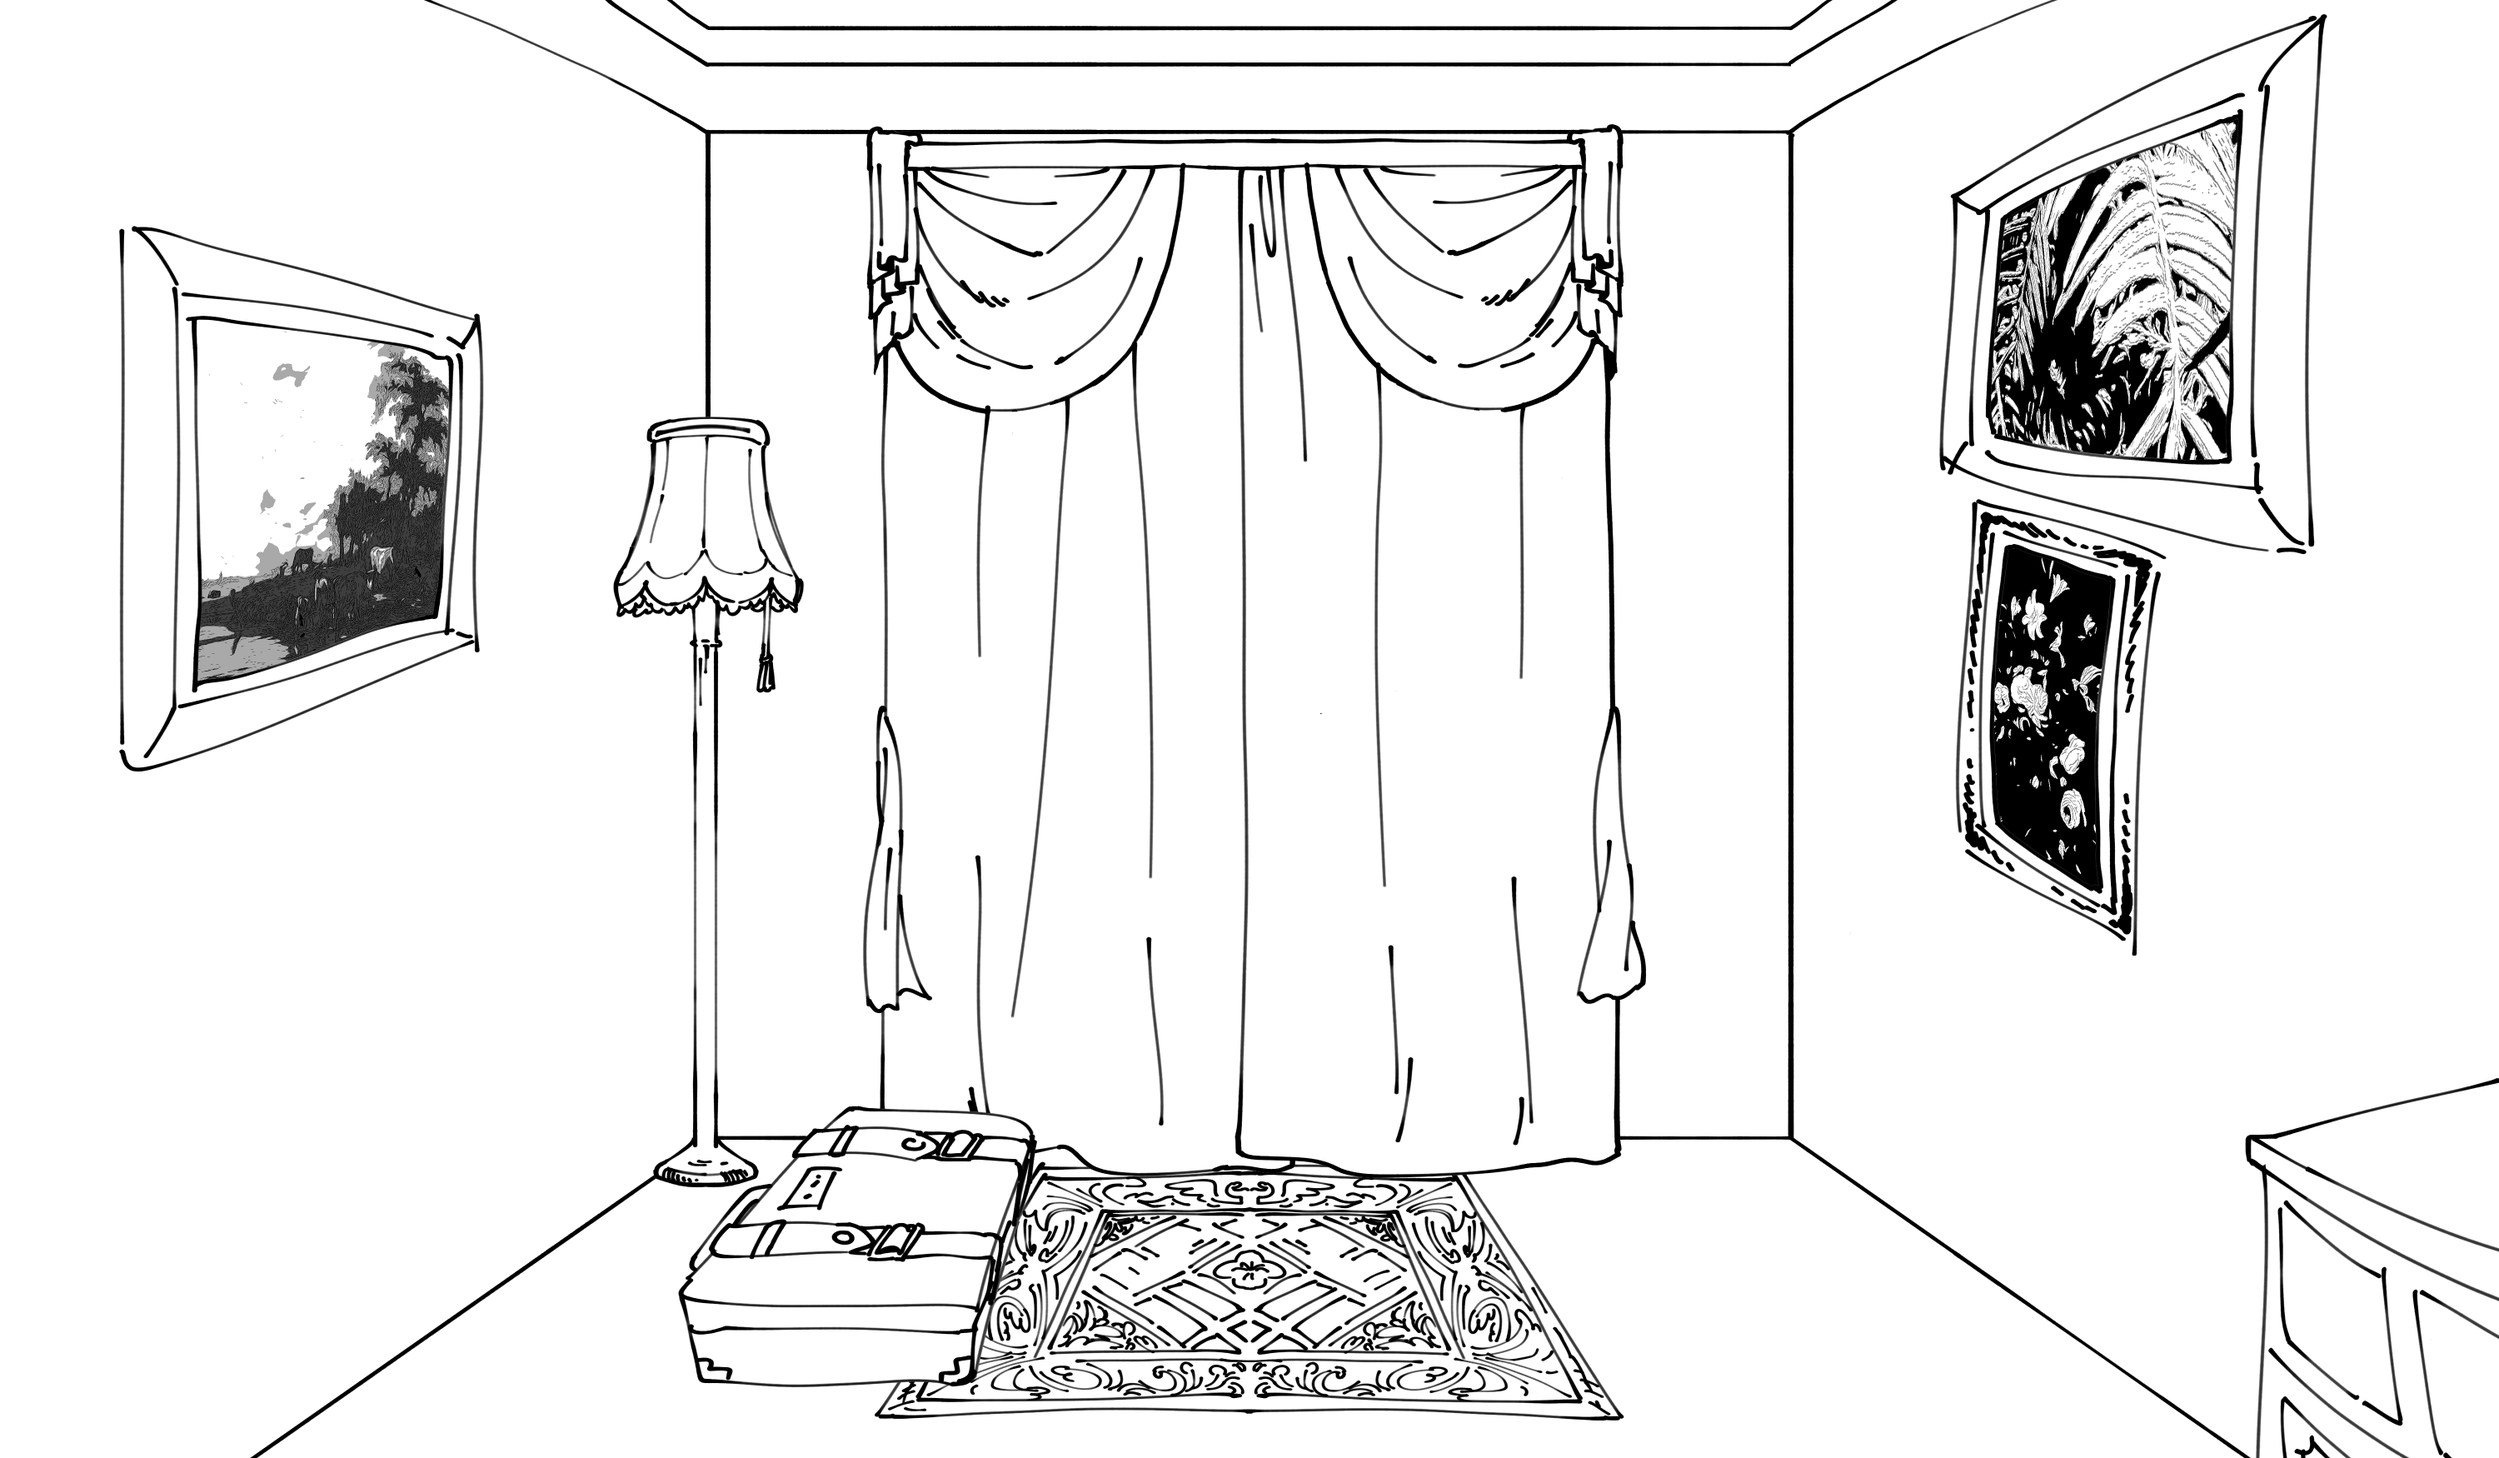
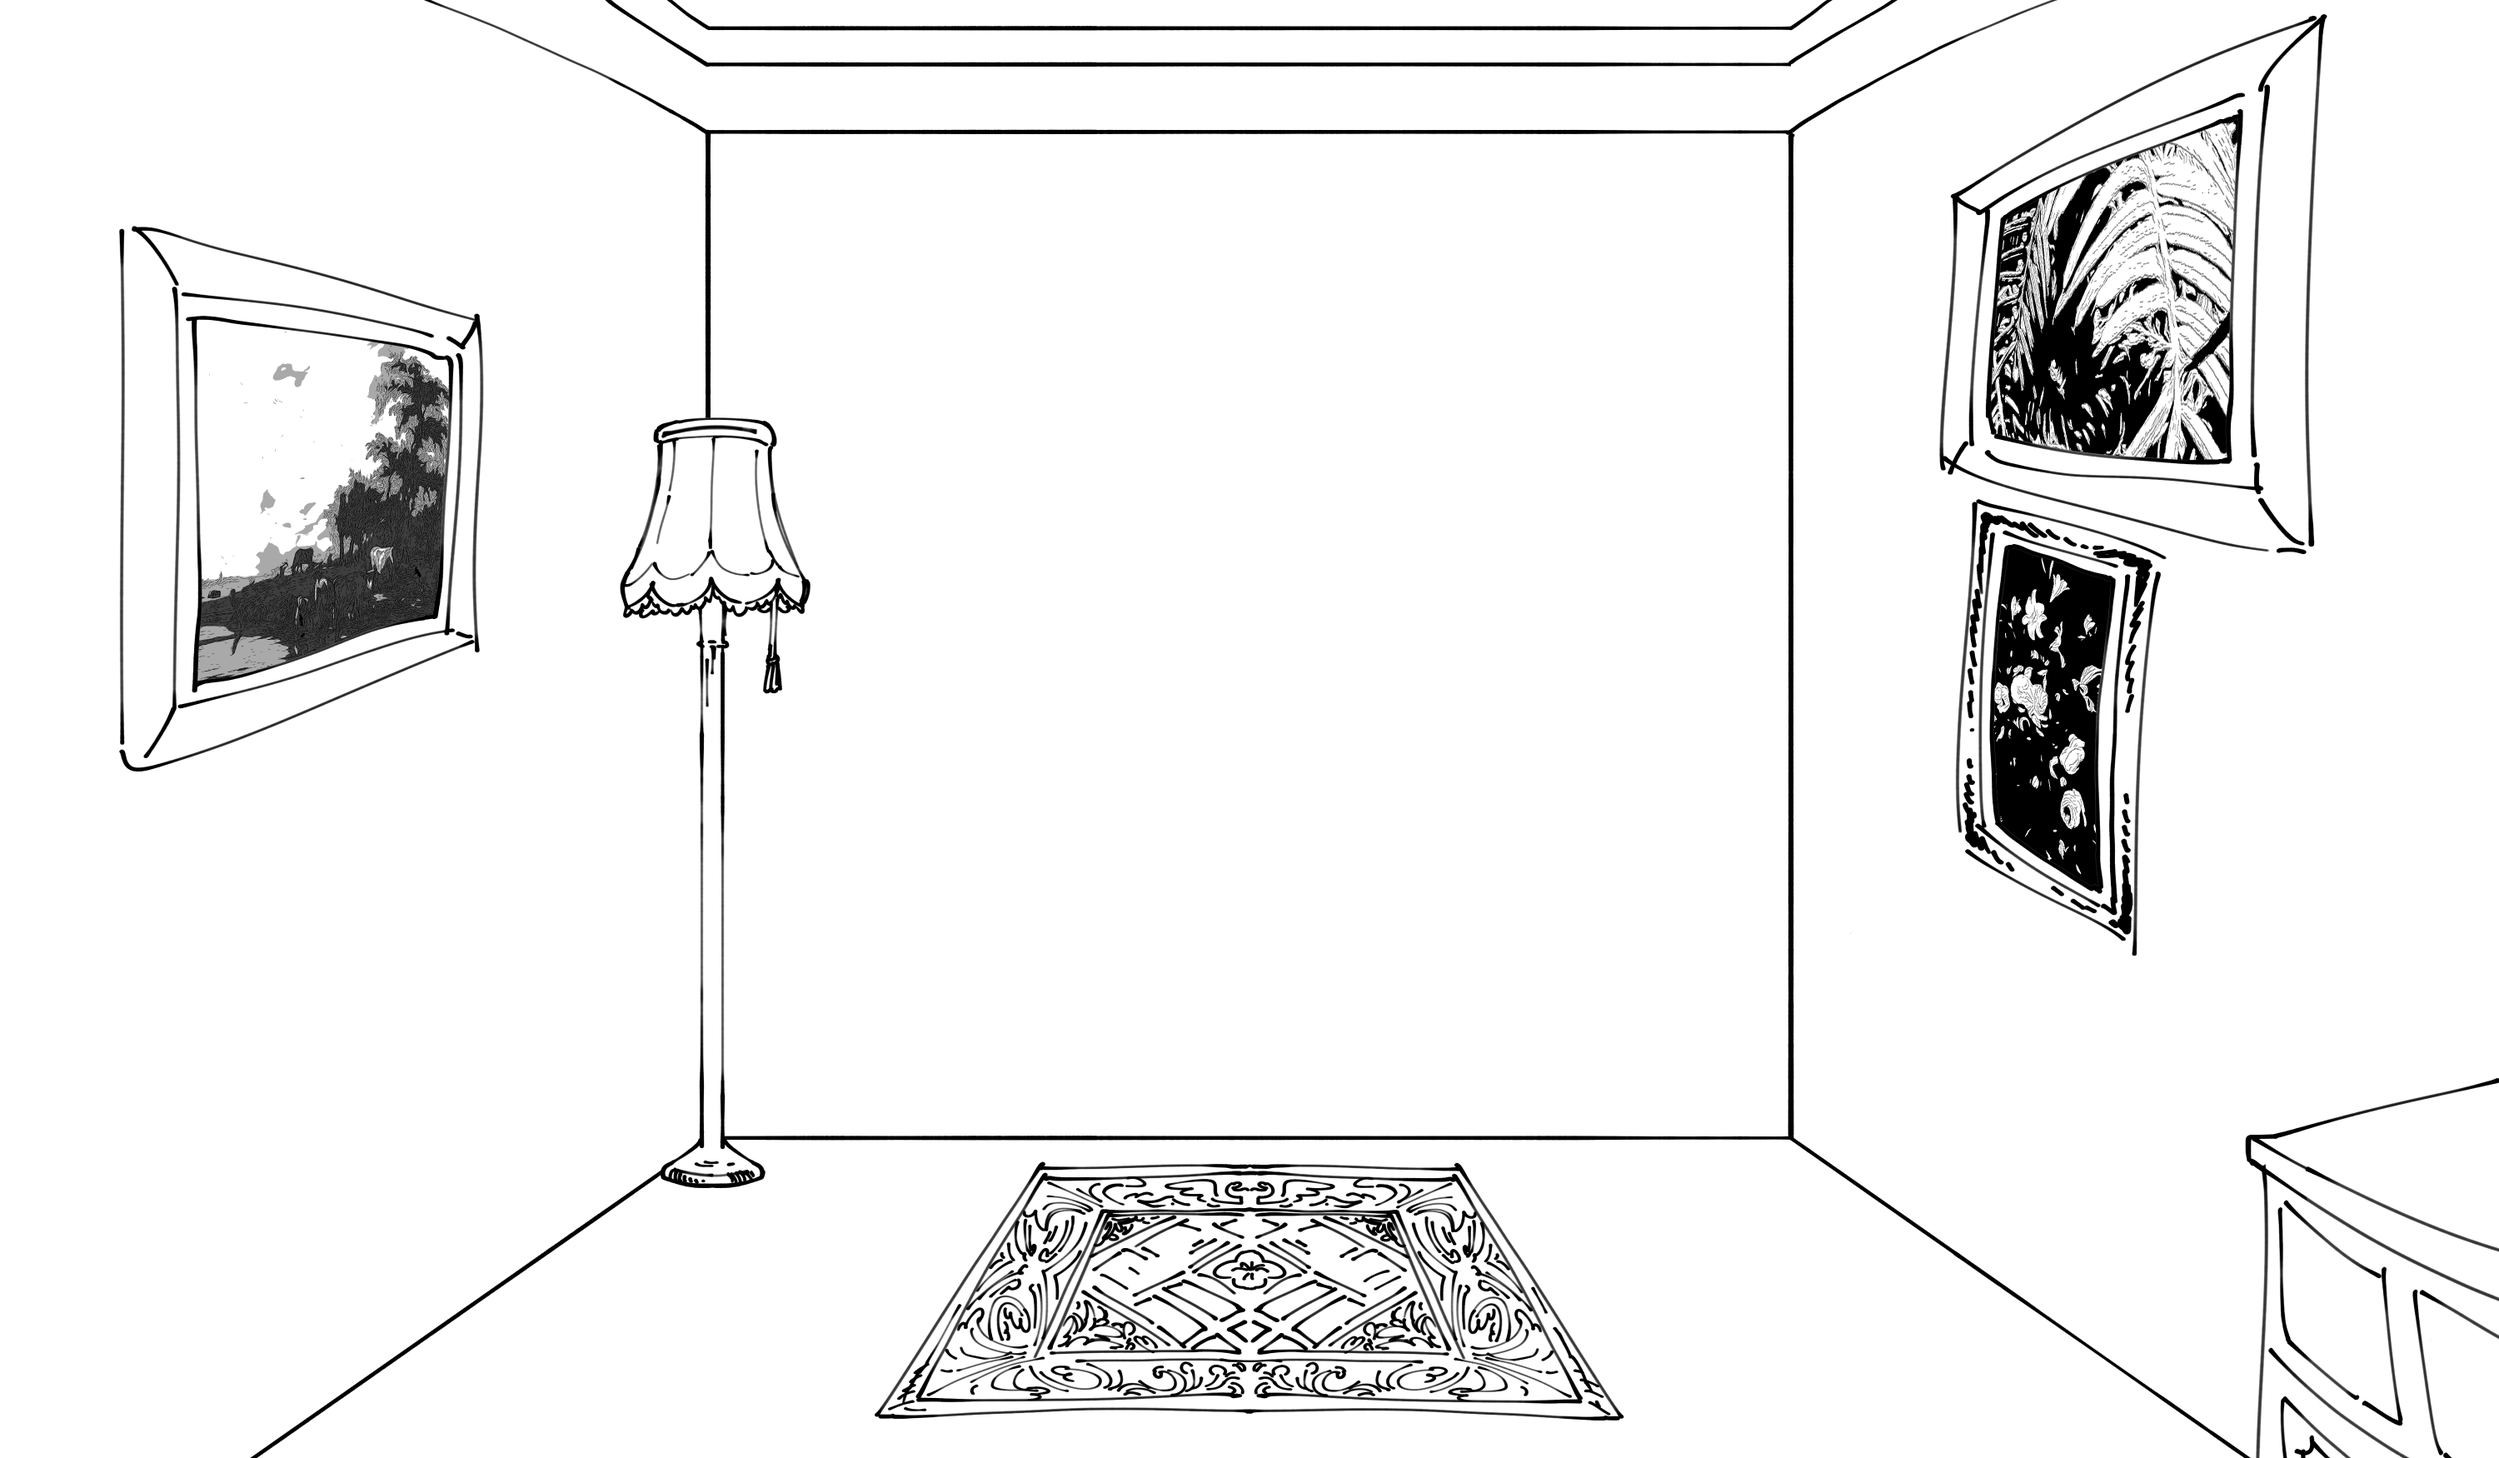
:lipstick: 창문벽 퍼블리싱

diff --git a/src/components/game/library/WindowWall.tsx b/src/components/game/library/WindowWall.tsx
@@ -1,10 +1,28 @@
-import React from "react";
+import React, { useState } from "react";
 import styled from "styled-components";
 import bg_windowwall from "../../../assets/library/windowwall/bg_windowwall.png";
+import window_open from "../../../assets/library/windowwall/window_open.png";
+import window_close from "../../../assets/library/windowwall/window_close.png";
+import window_close_dark from "../../../assets/library/windowwall/window_close_dark.png";
+import bag from "../../../assets/library/windowwall/bag.png";
 
 // 창문벽
 const WindowWall = () => {
-  return <Wrapper></Wrapper>;
+  const [isWindowClose, setIsWindowClose] = useState(false); // 창문 닫혀 있는지 여부
+  const clickWindow = () => {
+    setIsWindowClose(!isWindowClose);
+  };
+  return (
+    <Wrapper>
+      <Lamp />
+      <Window
+        src={isWindowClose ? window_close : window_open}
+        alt="window_open"
+        onClick={clickWindow}
+      />
+      <Bag src={bag} />
+    </Wrapper>
+  );
 };
 
 export default WindowWall;
@@ -18,4 +36,30 @@ const Wrapper = styled.div`
   background-size: contain;
   overflow-y: hidden;
   position: relative;
+`;
+
+const Lamp = styled.div`
+  /* background-color: pink;
+  opacity: 0.4; */
+
+  position: absolute;
+  width: 7%;
+  height: 25%;
+  margin-left: 27.9%;
+  margin-top: 14%;
+`;
+
+const Window = styled.img`
+  position: absolute;
+  width: 30%;
+  margin-left: 35%;
+  margin-top: 4%;
+`;
+
+const Bag = styled.img`
+  position: absolute;
+  width: 12%;
+  bottom: 0;
+  margin-bottom: 3%;
+  margin-left: 31%;
 `;
